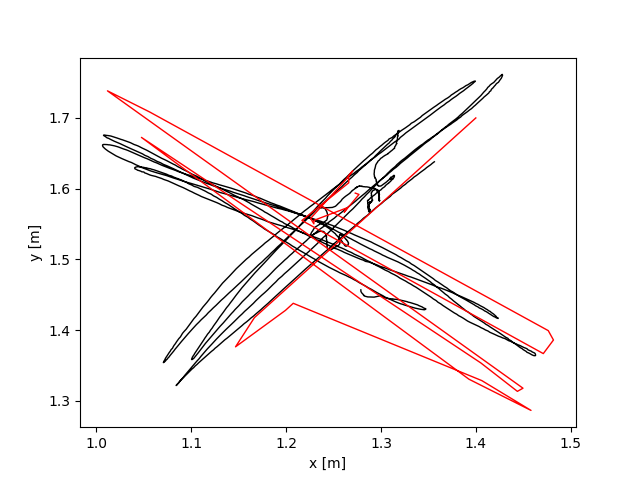
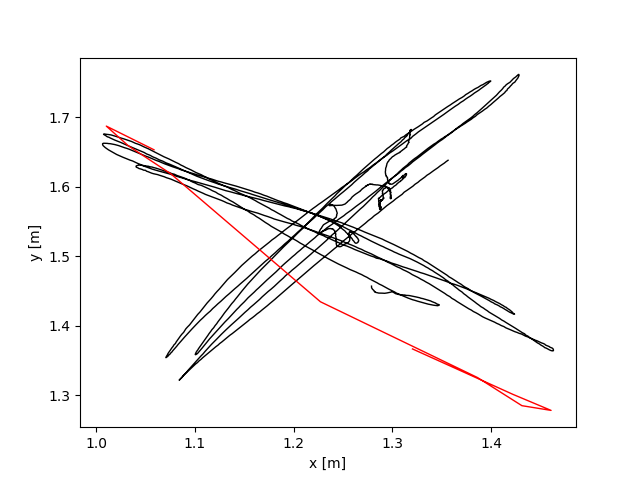
Almost got loop closure working

diff --git a/common/handler.py b/common/handler.py
@@ -60,6 +60,14 @@ def getLoopClosureFrames(indices):
 def getFrame(index):
     return cv2.imread(f'{sequence_folder}/{filenames[index]}', cv2.IMREAD_COLOR)
 
+def getFrameNumber(timestamp):
+    for i in range(len(timestamps)):
+        print(timestamps[i][:-8])
+        print(timestamp[:-6])
+        if timestamps[i][:-8] == timestamp[:-6]:
+            return i
+    return 0
+
 def showFrame(frame):
     cv2.imshow('Frame', frame)
 
@@ -96,10 +104,13 @@ def showVideo():
             break
     cv2.destroyAllWindows()
 
-def showTrajectory():
+def showTrajectory(start=0, stop=-1, showGT = True):
     xs, zs = readKFT()
     txs, tzs = readGT()
-    plt.plot(txs, tzs, color='black', linewidth=1.0)
+    xs = xs[start:stop]
+    zs = zs[start:stop]
+    if showGT:
+        plt.plot(txs, tzs, color='black', linewidth=1.0)
     plt.plot(xs, zs, color='red', linewidth=1.0)
     plt.xlabel('x [m]')
     plt.ylabel('y [m]')
@@ -173,7 +184,6 @@ def readLCC():
 def readKFT():
     xs = []
     zs = []
-    points = []
     origin = (1.4, 1.7)
     theta = np.deg2rad(-40)
     scale = 0.6

diff --git a/common/combined.py b/common/combined.py
@@ -10,5 +10,9 @@ if __name__ == "__main__":
 
     sequence_folder = args.path_to_sequence
 
-    handler.showTrajectory()
+    # handler.readFolder(sequence_folder, 'saved')
+    # print(handler.getFrameNumber('1305031098.6659'))
+    # print(handler.timestamps)
+    handler.showTrajectory(start=10, stop=20, showGT=True)
+    
     # bowh.combined(sequence_folder, num_frames=300, detecting=False, sup_weight=1, sal_weight=1, sim_threshold=1)
